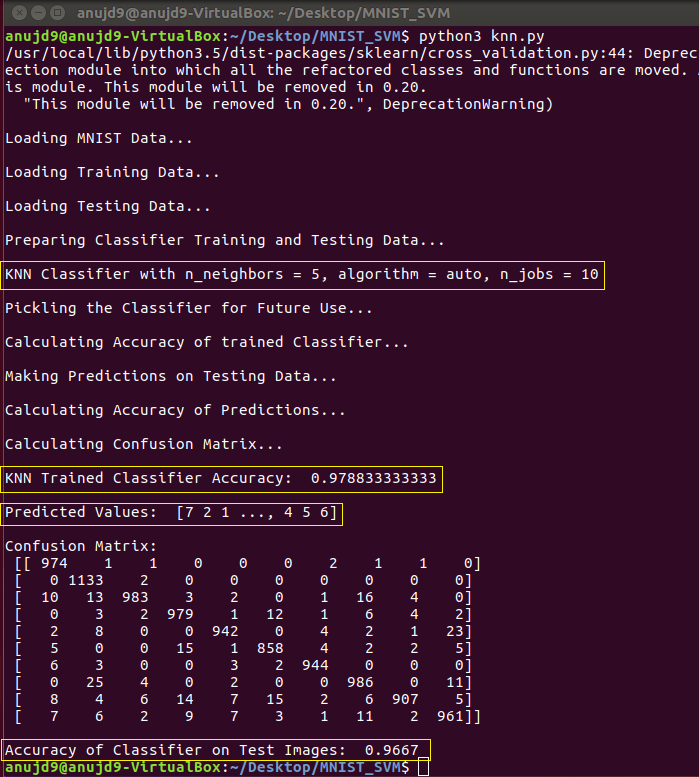
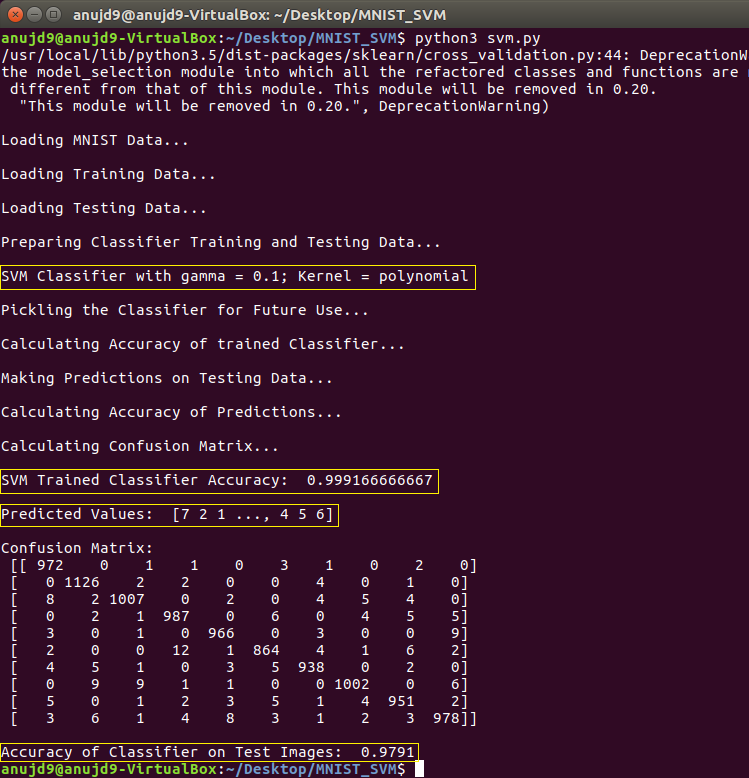
Add files via upload

Changed region(s): [[0.0, 0.2162, 1.0, 1.0], [0.0, 0.0, 1.0, 0.1853], [0.721, 0.3398, 0.8712, 0.3707]]

diff --git a/svm.py b/svm.py
@@ -1,0 +1,115 @@
+import sys
+import numpy as np
+import pickle
+from sklearn import model_selection, svm, preprocessing
+from sklearn.metrics import accuracy_score,confusion_matrix
+from MNIST_Dataset_Loader.mnist_loader import MNIST
+import matplotlib.pyplot as plt
+from matplotlib import style
+style.use('ggplot')
+
+
+# Save all the Print Statements in a Log file.
+old_stdout = sys.stdout
+log_file = open("summary.log","w")
+sys.stdout = log_file
+
+# Load MNIST Data
+print('\nLoading MNIST Data...')
+data = MNIST('./MNIST_Dataset_Loader/dataset/')
+
+print('\nLoading Training Data...')
+img_train, labels_train = data.load_training()
+train_img = np.array(img_train)
+train_labels = np.array(labels_train)
+
+print('\nLoading Testing Data...')
+img_test, labels_test = data.load_testing()
+test_img = np.array(img_test)
+test_labels = np.array(labels_test)
+
+
+#Features
+X = train_img
+
+#Labels
+y = train_labels
+
+# Prepare Classifier Training and Testing Data
+print('\nPreparing Classifier Training and Validation Data...')
+X_train, X_test, y_train, y_test = model_selection.train_test_split(X,y,test_size=0.1)
+
+
+# Pickle the Classifier for Future Use
+print('\nSVM Classifier with gamma = 0.1; Kernel = polynomial')
+print('\nPickling the Classifier for Future Use...')
+clf = svm.SVC(gamma=0.1, kernel='poly')
+clf.fit(X_train,y_train)
+
+with open('MNIST_SVM.pickle','wb') as f:
+	pickle.dump(clf, f)
+
+pickle_in = open('MNIST_SVM.pickle','rb')
+clf = pickle.load(pickle_in)
+
+print('\nCalculating Accuracy of trained Classifier...')
+acc = clf.score(X_test,y_test)
+
+print('\nMaking Predictions on Validation Data...')
+y_pred = clf.predict(X_test)
+
+print('\nCalculating Accuracy of Predictions...')
+accuracy = accuracy_score(y_test, y_pred)
+
+print('\nCreating Confusion Matrix...')
+conf_mat = confusion_matrix(y_test,y_pred)
+
+print('\nSVM Trained Classifier Accuracy: ',acc)
+print('\nPredicted Values: ',y_pred)
+print('\nAccuracy of Classifier on Validation Images: ',accuracy)
+print('\nConfusion Matrix: \n',conf_mat)
+
+# Plot Confusion Matrix Data as a Matrix
+plt.matshow(conf_mat)
+plt.title('Confusion Matrix for Validation Data')
+plt.colorbar()
+plt.ylabel('True label')
+plt.xlabel('Predicted label')
+plt.show()
+
+
+print('\nMaking Predictions on Test Input Images...')
+test_labels_pred = clf.predict(test_img)
+
+print('\nCalculating Accuracy of Trained Classifier on Test Data... ')
+acc = accuracy_score(test_labels,test_labels_pred)
+
+print('\n Creating Confusion Matrix for Test Data...')
+conf_mat_test = confusion_matrix(test_labels,test_labels_pred)
+
+print('\nPredicted Labels for Test Images: ',test_labels_pred)
+print('\nAccuracy of Classifier on Test Images: ',acc)
+print('\nConfusion Matrix for Test Data: \n',conf_mat_test)
+
+# Plot Confusion Matrix for Test Data
+plt.matshow(conf_mat_test)
+plt.title('Confusion Matrix for Test Data')
+plt.colorbar()
+plt.ylabel('True label')
+plt.xlabel('Predicted label')
+plt.axis('off')
+plt.show()
+
+sys.stdout = old_stdout
+log_file.close()
+
+
+# Show the Test Images with Original and Predicted Labels
+a = np.random.randint(1,40,15)
+for i in a:
+	two_d = (np.reshape(test_img[i], (28, 28)) * 255).astype(np.uint8)
+	plt.title('Original Label: {0}  Predicted Label: {1}'.format(test_labels[i],test_labels_pred[i]))
+	plt.imshow(two_d, interpolation='nearest',cmap='gray')
+	plt.show()
+#---------------------- EOC ---------------------#
+
